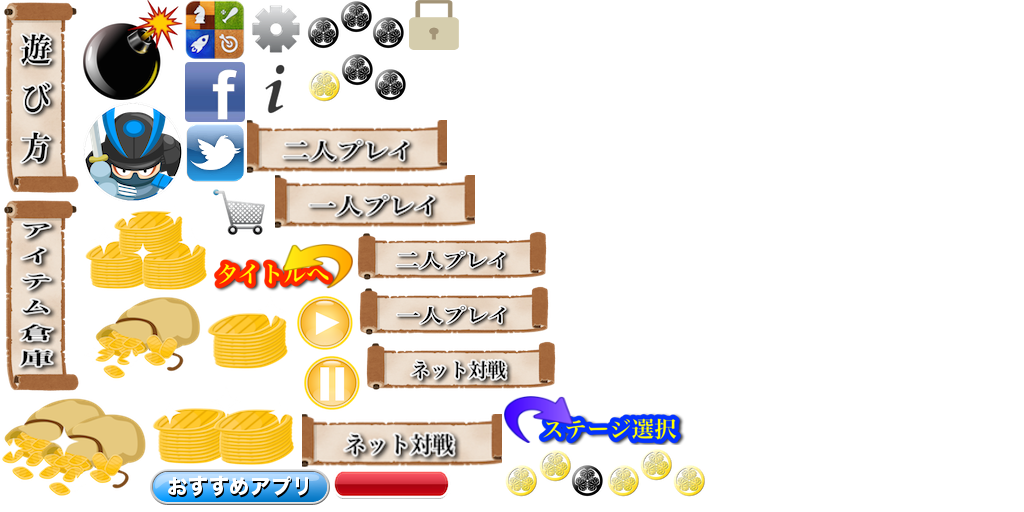
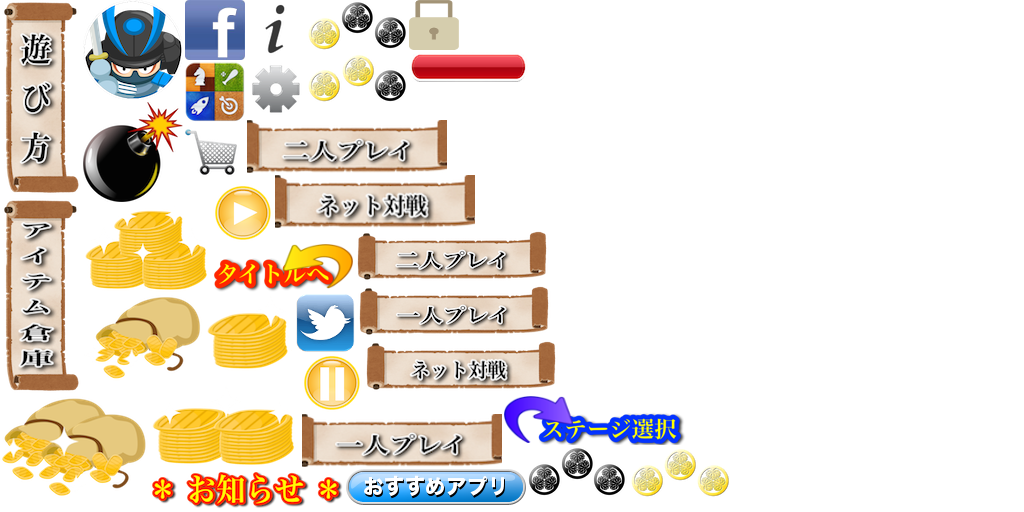
Webビューの追加（お知らせ用）。

diff --git a/VirginTech3rdProject/NoticeScene.m b/VirginTech3rdProject/NoticeScene.m
@@ -1,0 +1,92 @@
+//
+//  NoticeScene.m
+//  VirginTech3rdProject
+//
+//  Created by VirginTech LLC. on 2015/02/04.
+//  Copyright 2015年 VirginTech LLC. All rights reserved.
+//
+
+#import "NoticeScene.h"
+#import "TitleScene.h"
+#import "GameManager.h"
+#import "SoundManager.h"
+
+@implementation NoticeScene
+
+CGSize winSize;
+UIWebView *webview;
+
++ (NoticeScene *)scene
+{
+    return [[self alloc] init];
+}
+
+- (id)init
+{
+    // Apple recommend assigning self with supers return value
+    self = [super init];
+    if (!self) return(nil);
+    
+    winSize=[[CCDirector sharedDirector]viewSize];
+    
+    //タイトル
+    CCSprite* title=[CCSprite spriteWithImageNamed:@"title.png"];
+    title.positionType = CCPositionTypeNormalized;
+    title.position=ccp(0.5f,0.6f);
+    title.scale=0.8;
+    [self addChild:title];
+    
+    //WebViewの生成
+    if([GameManager getDevice]==3){//iPad
+        webview = [[UIWebView alloc] initWithFrame:CGRectMake(winSize.width*2*0.1,winSize.height*2*0.1,
+                                                            winSize.width*2*0.8, winSize.height*2*0.8)];
+    }else{
+        webview = [[UIWebView alloc] initWithFrame:CGRectMake(winSize.width*0.1,winSize.height*0.1,
+                                                            winSize.width*0.8, winSize.height*0.8)];
+    }
+    //delegateの使い方はお好みで
+    webview.delegate = self;
+    //参照先URLの設定
+    NSURL *url = [NSURL URLWithString:@"http://www.virgintech.co.jp/notice/notice_home.html"];
+    //お決まりの構文
+    NSURLRequest *request = [NSURLRequest requestWithURL:url];
+    //読み込み開始
+    [webview loadRequest:request];
+    //ここもお好みで(画面サイズにページを合わせるか)
+    webview.scalesPageToFit = YES;
+    //cocos2dの上に乗っける
+    [[[CCDirector sharedDirector] view] addSubview:webview];
+    
+    
+    //画像読み込み
+    [[CCSpriteFrameCache sharedSpriteFrameCache] addSpriteFramesWithFile:@"btn_default.plist"];
+    
+    CCButton *titleButton = [CCButton buttonWithTitle:@"" spriteFrame:
+                             [[CCSpriteFrameCache sharedSpriteFrameCache]spriteFrameByName:@"titleBtn.png"]];
+    //titleButton.positionType = CCPositionTypeNormalized;
+    titleButton.scale=0.6;
+    titleButton.position = ccp(winSize.width-(titleButton.contentSize.width*titleButton.scale)/2,
+                               winSize.height-titleButton.contentSize.height/2);
+    [titleButton setTarget:self selector:@selector(onTitleClicked:)];
+    [self addChild:titleButton];
+    
+    return self;
+}
+
+- (void) dealloc
+{
+    webview.delegate=nil;
+    [webview removeFromSuperview];
+}
+
+- (void)onTitleClicked:(id)sender
+{
+    // back to intro scene with transition
+    [SoundManager click_Effect];
+    [[CCDirector sharedDirector] replaceScene:[TitleScene scene]
+                               withTransition:[CCTransition transitionCrossFadeWithDuration:1.0]];
+    //インターステイシャル広告表示
+    //[ImobileSdkAds showBySpotID:@"359467"];
+}
+
+@end

diff --git a/VirginTech3rdProject/Classes/TitleScene.m b/VirginTech3rdProject/Classes/TitleScene.m
@@ -19,6 +19,7 @@
 #import "ShopLayer.h"
 #import "SoundManager.h"
 #import "ManualLayer.h"
+#import "NoticeScene.h"
 
 #import "IAdLayer.h"
 #import "IMobileLayer.h"
@@ -271,6 +272,16 @@ CCLabelBMFont* coinLabel;
     moreAppButton.position=ccp(matchMakeButton.position.x,version.position.y-version.contentSize.height/2-(moreAppButton.contentSize.height*moreAppButton.scale)/2 - 10);
     [moreAppButton setTarget:self selector:@selector(onMoreAppClicked:)];
     [self addChild:moreAppButton];
+    
+    //お知らせボタン
+    if([GameManager getLocale]==1){//日本語のみ
+        CCButton* noticeButton=[CCButton buttonWithTitle:@""
+                        spriteFrame:[[CCSpriteFrameCache sharedSpriteFrameCache]spriteFrameByName:@"notice.png"]];
+        noticeButton.scale=0.4;
+        noticeButton.position=ccp(onePlayButton.position.x,onePlayButton.position.y+(onePlayButton.contentSize.height*onePlayButton.scale)/2+(noticeButton.contentSize.height*noticeButton.scale)/2);
+        [noticeButton setTarget:self selector:@selector(onNoticeClicked:)];
+        [self addChild:noticeButton];
+    }
     
     // done
 	return self;
@@ -547,6 +558,13 @@ CCLabelBMFont* coinLabel;
 {
     NSURL* url = [NSURL URLWithString:@"https://itunes.apple.com/jp/artist/virgintech-llc./id869207880"];
     [[UIApplication sharedApplication]openURL:url];
+}
+
+-(void)onNoticeClicked:(id)sender
+{
+    [SoundManager click_Effect];
+    [[CCDirector sharedDirector] replaceScene:[NoticeScene scene]
+                               withTransition:[CCTransition transitionCrossFadeWithDuration:0.5]];
 }
 
 @end

diff --git a/VirginTech3rdProject/NoticeScene.h b/VirginTech3rdProject/NoticeScene.h
@@ -1,0 +1,20 @@
+//
+//  NoticeScene.h
+//  VirginTech3rdProject
+//
+//  Created by VirginTech LLC. on 2015/02/04.
+//  Copyright 2015年 VirginTech LLC. All rights reserved.
+//
+
+#import <Foundation/Foundation.h>
+#import "cocos2d.h"
+#import "cocos2d-ui.h"
+
+@interface NoticeScene : CCScene <UIWebViewDelegate> {
+    
+}
+
++ (NoticeScene *)scene;
+- (id)init;
+
+@end
